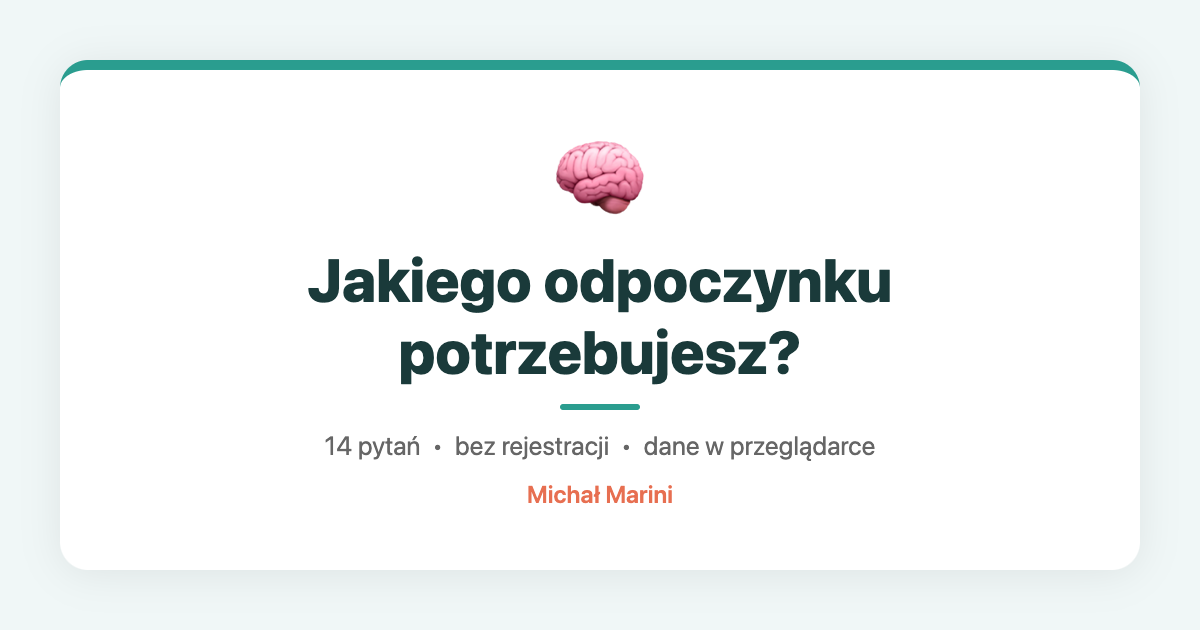
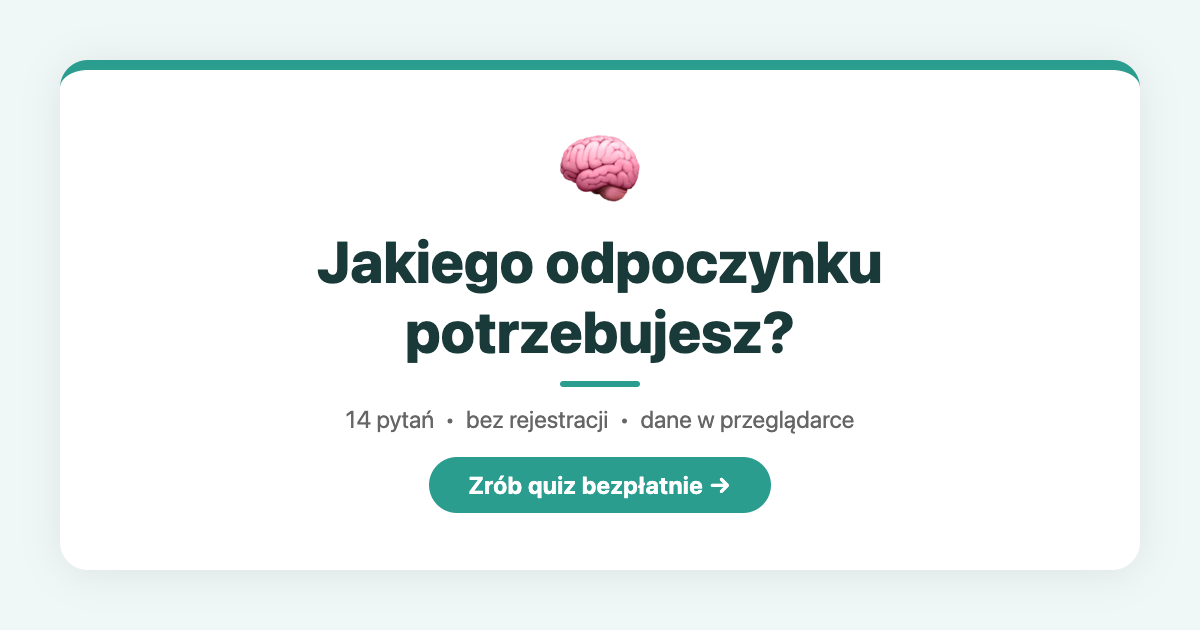
fix: OG image z CTA, dłuższy og:title

Changed region(s): [[0.2467, 0.3619, 0.74, 0.8143], [0.4625, 0.2111, 0.555, 0.3619]]

diff --git a/index.html b/index.html
@@ -5,7 +5,7 @@
   <meta name="viewport" content="width=device-width, initial-scale=1.0">
   <title>Jakiego odpoczynku potrzebujesz?</title>
   <meta name="description" content="14 krótkich pytań o to, jak czujesz się dziś. Dowiedz się jakiego odpoczynku potrzebujesz teraz i co konkretnie możesz zrobić.">
-  <meta property="og:title" content="Jakiego odpoczynku potrzebujesz?">
+  <meta property="og:title" content="Quiz: Jakiego odpoczynku potrzebujesz teraz?">
   <meta property="og:description" content="14 pytań → konkretny typ odpoczynku dopasowany do Twojego stanu. Bez rejestracji, dane zostają w przeglądarce.">
   <meta property="og:type" content="website">
   <meta property="og:url" content="https://mrcanon19.github.io/adhd-rest-quiz/">
